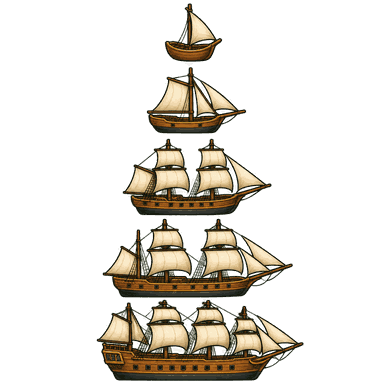
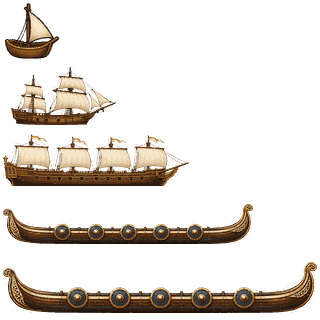
Legg til nye figurar og sprite-standard i BåreTevling

diff --git a/baretevling/index.html b/baretevling/index.html
@@ -3,7 +3,7 @@
 <head>
     <meta charset="UTF-8">
     <meta name="viewport" content="width=device-width, initial-scale=1.0">
-    <title>BåreTevling – Slagskip med koordinatsystem</title>
+    <title>BåreTevling – Koordinatduell</title>
     <link rel="icon" href="/favicon.ico" sizes="any">
     <link rel="icon" type="image/png" href="/_resources/vyrde-ikon.png" sizes="384x384">
     <link rel="apple-touch-icon" href="/_resources/vyrde-ikon-180.png">
@@ -24,7 +24,7 @@
                         <img src="../_resources/baretevling.png" alt="BåreTevling Logo" style="height: 120px; width: auto; object-fit: contain; filter: drop-shadow(4px 4px 0 rgba(0,0,0,0.5));">
                         <div style="flex: 1;">
                             <h1 style="font-size: clamp(2rem, 5vw, 3rem); font-weight: 900; margin-bottom: 8px; line-height: 1; text-shadow: 2px 2px 0 rgba(0,0,0,0.3);">BåreTevling</h1>
-                            <p style="font-size: clamp(1rem, 2vw, 1.2rem); font-weight: 600; margin: 0; opacity: 0.9;">Slagskip med koordinatsystem – lær deg å bruke A1, B2, osv!</p>
+                            <p style="font-size: clamp(1rem, 2vw, 1.2rem); font-weight: 600; margin: 0; opacity: 0.9;">Plasser figurar med koordinatar – lær deg å bruke A1, B2, osv!</p>
                         </div>
                     </div>
 
@@ -36,17 +36,17 @@
                                 <h3>To-spelar modus</h3>
                                 <ol>
                                     <li>Vel spelmodus: <strong>Lokal to-spelar</strong></li>
-                                    <li>Spelar 1 plasserer sine skip ved å skrive koordinat (f.eks. A1) og velje himmelretning (N/S/Ø/V)</li>
-                                    <li>Spelar 2 plasserer sine skip på same måte</li>
+                                    <li>Spelar 1 plasserer figurane sine ved å skrive koordinat (f.eks. A1) og velje himmelretning (N/S/Ø/V)</li>
+                                    <li>Spelar 2 plasserer figurane sine på same måte</li>
                                     <li>Spelarane byter på å angripe ved å skrive koordinatar</li>
                                     <li>Når du skriv "treff" eller "bom", markerast det på begge brett</li>
-                                    <li>Først til å søkke alle motstandaren sine skip vinn!</li>
+                                    <li>Først til å treffa alle figurane til motstandaren vinn!</li>
                                 </ol>
                                 <h3>Mot datamaskinen</h3>
                                 <ol>
                                     <li>Vel spelmodus: <strong>Mot datamaskinen</strong></li>
-                                    <li>Plasser dine skip</li>
-                                    <li>Datamaskinen plasserer sine skip automatisk</li>
+                                    <li>Plasser figurane dine</li>
+                                    <li>Datamaskinen plasserer sine figurar automatisk</li>
                                     <li>Angrip ved å skrive koordinatar – datamaskinen svarer automatisk</li>
                                     <li>Datamaskinen angrip tilbake med ein smart algoritme</li>
                                 </ol>
@@ -81,15 +81,17 @@
                         </div>
 
                         <div class="settings-group">
-                            <p class="settings-label" id="shipStyleLabel">Skipslag</p>
+                            <p class="settings-label" id="shipStyleLabel">Figurtype</p>
                             <div class="btn-group" role="group" aria-labelledby="shipStyleLabel">
-                                <button type="button" class="opt-btn selected" data-ship-style="classic" aria-pressed="true">Klassiske seilskip</button>
+                                <button type="button" class="opt-btn selected" data-ship-style="classic" aria-pressed="true">Klassiske seglskip</button>
                                 <button type="button" class="opt-btn" data-ship-style="modern" aria-pressed="false">Moderne krigsskip</button>
+                                <button type="button" class="opt-btn" data-ship-style="vehicles" aria-pressed="false">Bilar og lastebilar</button>
+                                <button type="button" class="opt-btn" data-ship-style="aircraft" aria-pressed="false">Fly</button>
                             </div>
                         </div>
 
                         <div class="settings-group">
-                            <label class="settings-label">Skip-konfigurasjon</label>
+                            <label class="settings-label">Figuroppsett</label>
                             <div class="ship-config">
                                 <div class="ship-row">
                                     <span class="ship-label">Stor (5):</span>
@@ -122,8 +124,8 @@
                 <!-- Ship Placement Screen -->
                 <div id="placementScreen" class="screen hidden" style="width: 100%;">
                     <div class="box1" style="padding: 24px;">
-                        <h2 class="heading2 text-center" id="placementTitle">Plasser skip</h2>
-                        <p class="panel-sub" id="placementSub">Spelar 1 plasserer sine skip</p>
+                        <h2 class="heading2 text-center" id="placementTitle">Plasser figurar</h2>
+                        <p class="panel-sub" id="placementSub">Spelar 1 plasserer figurane sine</p>
 
                         <div class="board-container" id="placementBoardContainer">
                             <div class="board" id="placementBoard"></div>
@@ -147,11 +149,11 @@
                             </div>
 
                             <div class="current-ship">
-                                <label class="settings-label">Neste skip</label>
+                                <label class="settings-label">Neste figur</label>
                                 <div class="ship-preview" id="shipPreview"></div>
                             </div>
 
-                            <button class="btn" id="btnPlaceShip" style="margin-top: 12px; margin-bottom: 8px;">Plasser skip</button>
+                            <button class="btn" id="btnPlaceShip" style="margin-top: 12px; margin-bottom: 8px;">Plasser figur</button>
                             <button class="btn" id="btnStartGame" style="background: var(--bt-hit); color: #1a1a1a;" disabled>Start spel</button>
                         </div>
                     </div>
@@ -200,11 +202,11 @@
 
                         <div class="game-info">
                             <div class="info-box">
-                                <span class="info-label">Dine skip:</span>
+                                <span class="info-label">Dine figurar:</span>
                                 <span class="info-value" id="playerShipsLeft">7</span>
                             </div>
                             <div class="info-box">
-                                <span class="info-label">Motstandar skip:</span>
+                                <span class="info-label">Motstandaren sine figurar:</span>
                                 <span class="info-value" id="enemyShipsLeft">7</span>
                             </div>
                         </div>

diff --git a/baretevling/js/app.js b/baretevling/js/app.js
@@ -106,8 +106,7 @@ const Game = {
         // Reset state
         this.state.mode = document.querySelector('[data-mode].selected').dataset.mode;
         this.state.boardSize = parseInt(document.querySelector('[data-size].selected').dataset.size);
-        this.state.shipStyle = document.querySelector('[data-ship-style].selected')?.dataset.shipStyle || 'classic';
-        Board.setShipStyle(this.state.shipStyle);
+        this.state.shipStyle = Board.setShipStyle(document.querySelector('[data-ship-style].selected')?.dataset.shipStyle);
         this.state.shipConfig = Ships.getShipConfig();
         this.state.playerBoard = Board.createEmptyBoard(this.state.boardSize);
         this.state.enemyBoard = Board.createEmptyBoard(this.state.boardSize);
@@ -128,7 +127,7 @@ const Game = {
         // Auto-place enemy ships
         const enemyPlaced = Ships.autoPlaceShips(this.state.enemyBoard, this.state.enemyShips, this.state.boardSize);
         if (!enemyPlaced) {
-            alert('Klarte ikkje plassere fiendens skip. Prøv ein mindre brett eller færre skip.');
+            alert('Klarte ikkje plassere fiendens figurar. Prøv eit mindre brett eller færre figurar.');
             return;
         }
         this.state.enemyShips = enemyPlaced;
@@ -142,8 +141,7 @@ const Game = {
         const savedState = Storage.load();
         if (savedState) {
             this.state = savedState;
-            this.state.shipStyle = this.state.shipStyle === 'modern' ? 'modern' : 'classic';
-            Board.setShipStyle(this.state.shipStyle);
+            this.state.shipStyle = Board.setShipStyle(this.state.shipStyle);
             document.querySelectorAll('[data-ship-style]').forEach(option => {
                 const selected = option.dataset.shipStyle === this.state.shipStyle;
                 option.classList.toggle('selected', selected);
@@ -175,11 +173,11 @@ const Game = {
         const sub = document.getElementById('placementSub');
 
         if (this.state.mode === 'ai') {
-            title.textContent = 'Plasser skip';
-            sub.textContent = 'Plasser dine skip før spelet startar';
+            title.textContent = 'Plasser figurar';
+            sub.textContent = 'Plasser figurane dine før spelet startar';
         } else {
-            title.textContent = `Plasser skip - Spelar ${this.state.currentPlayer}`;
-            sub.textContent = `Spelar ${this.state.currentPlayer} plasserer sine skip`;
+            title.textContent = `Plasser figurar – spelar ${this.state.currentPlayer}`;
+            sub.textContent = `Spelar ${this.state.currentPlayer} plasserer figurane sine`;
         }
 
         // Render board
@@ -203,7 +201,7 @@ const Game = {
         if (currentShip) {
             Ships.renderShipPreview(preview, currentShip.size);
         } else {
-            preview.innerHTML = 'Alle skip plassert!';
+            preview.innerHTML = 'Alle figurane er plasserte!';
         }
     },
 
@@ -252,7 +250,7 @@ const Game = {
             // Enable start game button
             document.getElementById('btnStartGame').disabled = false;
             document.getElementById('btnPlaceShip').disabled = true;
-            document.getElementById('shipPreview').innerHTML = 'Alle skip plassert!';
+            document.getElementById('shipPreview').innerHTML = 'Alle figurane er plasserte!';
         } else {
             this.updateShipPreview();
             this.setupPlacementPhase();
@@ -282,7 +280,7 @@ const Game = {
                 this.startGame();
             }
         } else {
-            alert('Klarte ikkje plassere alle skipa. Prøv ein mindre brett eller færre skip.');
+            alert('Klarte ikkje plassere alle figurane. Prøv eit mindre brett eller færre figurar.');
         }
     },
 
@@ -479,7 +477,7 @@ const Game = {
 
         const ship = ships.find(s => s.id === shipId);
         if (ship && Ships.isShipSunk(this.state.enemyBoard, ship.cells)) {
-            alert(`Du senka eit skip på ${ship.size} celler!`);
+            alert(`Du fann ein figur på ${ship.size} ruter!`);
         }
     },
 
@@ -526,7 +524,7 @@ const Game = {
         const ship = this.state.playerShips.find(s => s.id === shipId);
         if (ship && Ships.isShipSunk(this.state.playerBoard, ship.cells)) {
             AI.checkShipSunk(ship.cells, this.state.playerBoard);
-            alert(`Datamaskinen senka skipet ditt på ${ship.size} celler!`);
+            alert(`Datamaskinen fann ein figur på ${ship.size} ruter!`);
         }
     },
 
@@ -551,10 +549,10 @@ const Game = {
 
         if (playerLost) {
             title.textContent = 'Du tapte!';
-            sub.textContent = 'Datamaskinen senka alle skipa dine';
+            sub.textContent = 'Datamaskinen fann alle figurane dine';
         } else {
             title.textContent = 'Du vann!';
-            sub.textContent = 'Gratulerer - du senka alle fiendens skip!';
+            sub.textContent = 'Gratulerer – du fann alle fiendens figurar!';
         }
 
         hits.textContent = this.state.hits;

diff --git a/baretevling/js/board.js b/baretevling/js/board.js
@@ -1,34 +1,39 @@
 // BåreTevling - Board Rendering and Coordinate System
 const Board = {
-    // The selected sprite sheet uses one complete, clipped ship per size.
     shipStyle: 'classic',
-    shipImageSets: {
-        classic: {
-            1: [{ img: 'resources/ships/classic-ships.png', viewBox: '163 1 61 63', preserveAspectRatio: 'none', cells: 1 }],
-            2: [{ img: 'resources/ships/classic-ships.png', viewBox: '144 65 105 71', preserveAspectRatio: 'none', cells: 2 }],
-            3: [{ img: 'resources/ships/classic-ships.png', viewBox: '120 136 154 82', preserveAspectRatio: 'none', cells: 3 }],
-            4: [{ img: 'resources/ships/classic-ships.png', viewBox: '100 216 195 84', preserveAspectRatio: 'none', cells: 4 }],
-            5: [{ img: 'resources/ships/classic-ships.png', viewBox: '94 297 212 86', preserveAspectRatio: 'none', cells: 5 }]
-        },
-        modern: {
-            1: [{ img: 'resources/ships/modern-ships.png', viewBox: '50 17 118 44', preserveAspectRatio: 'xMidYMid meet', cells: 1 }],
-            2: [{ img: 'resources/ships/modern-ships.png', viewBox: '53 73 185 66', preserveAspectRatio: 'xMidYMid meet', cells: 2 }],
-            3: [{ img: 'resources/ships/modern-ships.png', viewBox: '48 147 249 73', preserveAspectRatio: 'xMidYMid meet', cells: 3 }],
-            4: [{ img: 'resources/ships/modern-ships.png', viewBox: '28 221 324 82', preserveAspectRatio: 'xMidYMid meet', cells: 4 }],
-            5: [{ img: 'resources/ships/modern-ships.png', viewBox: '6 302 374 75', preserveAspectRatio: 'xMidYMid meet', cells: 5 }]
-        }
+    spriteCellSize: 64,
+    spriteAtlasSize: 320,
+    shipSpriteSheets: {
+        classic: 'resources/ships/classic-ships.png',
+        modern: 'resources/ships/modern-ships.png',
+        vehicles: 'resources/pieces/vehicles.png',
+        aircraft: 'resources/pieces/aircraft.png'
     },
+
+    // All sheets use five 64px rows: 1x1, 2x1, 3x1, 4x1, and 5x1 cells.
     get shipImages() {
-        return this.shipImageSets[this.shipStyle] || this.shipImageSets.classic;
+        const img = this.shipSpriteSheets[this.shipStyle] || this.shipSpriteSheets.classic;
+        const images = {};
+        for (let cells = 1; cells <= 5; cells++) {
+            images[cells] = [{ img, cells }];
+        }
+        return images;
     },
+
     setShipStyle(style) {
-        if (this.shipImageSets[style]) this.shipStyle = style;
+        this.shipStyle = Object.prototype.hasOwnProperty.call(this.shipSpriteSheets, style)
+            ? style
+            : 'classic';
+        return this.shipStyle;
     },
+
     createShipVisual(part) {
         const svg = document.createElementNS('http://www.w3.org/2000/svg', 'svg');
-        const [, , width, height] = part.viewBox.split(/\s+/).map(Number);
-        svg.setAttribute('viewBox', part.viewBox);
-        svg.setAttribute('preserveAspectRatio', part.preserveAspectRatio || 'xMidYMid meet');
+        const width = part.cells * this.spriteCellSize;
+        const height = this.spriteCellSize;
+        const y = (part.cells - 1) * this.spriteCellSize;
+        svg.setAttribute('viewBox', `0 ${y} ${width} ${height}`);
+        svg.setAttribute('preserveAspectRatio', 'xMidYMid meet');
         svg.setAttribute('width', width);
         svg.setAttribute('height', height);
         svg.setAttribute('aria-hidden', 'true');
@@ -37,8 +42,8 @@ const Board = {
 
         const image = document.createElementNS('http://www.w3.org/2000/svg', 'image');
         image.setAttribute('href', part.img);
-        image.setAttribute('width', '384');
-        image.setAttribute('height', '384');
+        image.setAttribute('width', this.spriteAtlasSize);
+        image.setAttribute('height', this.spriteAtlasSize);
         image.setAttribute('preserveAspectRatio', 'none');
         svg.appendChild(image);
         return svg;

diff --git a/index.html b/index.html
@@ -35,9 +35,9 @@
             </div>
             <aside class="vp-sign vp-sign--grounded vp-home-note" aria-label="Nyaste endringar">
                 <section class="vp-panel vp-panel--wood">
-                    <p class="vp-home-kicker">Nyaste endring på Vyrdepil · Versjon 1.74</p>
-                    <p><strong>Nye skipsfigurar i BåreTevling.</strong> Vel mellom klassiske seilskip og moderne krigsskip.</p>
-                    <p>På mobil er det meir luft mellom skilta, og footeren står ved skjermbotnen på korte sider.</p>
+                    <p class="vp-home-kicker">Nyaste endring på Vyrdepil · Versjon 1.76</p>
+                    <p><strong>BåreTevling har fått fire figurtypar:</strong> klassiske seglskip, moderne krigsskip, bilar og lastebilar eller fly. Alle følgjer same storleiksstandard og blir viste utan strekking.</p>
+                    <p>Lagring, import og poengberekning i spela og verktøya er òg tryggare.</p>
                     <p>Finn du noko som ikkje fungerer som det skal, gje gjerne Kjellove beskjed på <a href="mailto:kjellomail@gmail.com">kjellomail@gmail.com</a>.</p>
                     <p><a href="endringar.html">Sjå alle endringar <span aria-hidden="true">→</span></a></p>
                 </section>

diff --git a/baretevling/js/ships.js b/baretevling/js/ships.js
@@ -162,12 +162,12 @@ const Ships = {
         const cells = this.getShipCells(startCoord, size, direction, boardSize);
         
         if (!cells) {
-            return { valid: false, message: 'Skipet går utanfor brettet' };
+            return { valid: false, message: 'Figuren går utanfor brettet' };
         }
         
         // Check for overlap
         if (!this.isValidPlacement(cells, boardData)) {
-            return { valid: false, message: 'Skipet overlappar med eit anna skip' };
+            return { valid: false, message: 'Figuren overlappar med ein annan figur' };
         }
         
         return { valid: true, cells };
@@ -186,7 +186,7 @@ const Ships = {
                 const shipVisual = Board.createShipVisual(part);
                 shipVisual.removeAttribute('aria-hidden');
                 shipVisual.setAttribute('role', 'img');
-                shipVisual.setAttribute('aria-label', `Skip (${size})`);
+                shipVisual.setAttribute('aria-label', `Figur (${size} ruter)`);
                 shipVisual.style.maxHeight = '60px';
                 shipVisual.style.width = 'auto';
                 wrapper.appendChild(shipVisual);

diff --git a/CHANGELOG.md b/CHANGELOG.md
@@ -3,6 +3,14 @@
 Alle merkbare endringar i prosjektet blir dokumenterte her.
 Format: [Keep a Changelog](https://keepachangelog.com/), datoar i ISO 8601.
 
+## [1.76] — 2026-10-04
+
+### Endra
+- **BåreTevling har fått fire figurtypar.** Vel mellom klassiske seglskip, moderne krigsskip, bilar og lastebilar eller fly. Alle spritearka følgjer same standard frå 1 til 5 ruter.
+
+### Fiksa
+- **Figurane held rette proporsjonar.** Spriteutsnitta er klipte reine, utan restar frå rada over.
+
 ## [1.75] — 2026-10-03
 
 ### Fiksa
